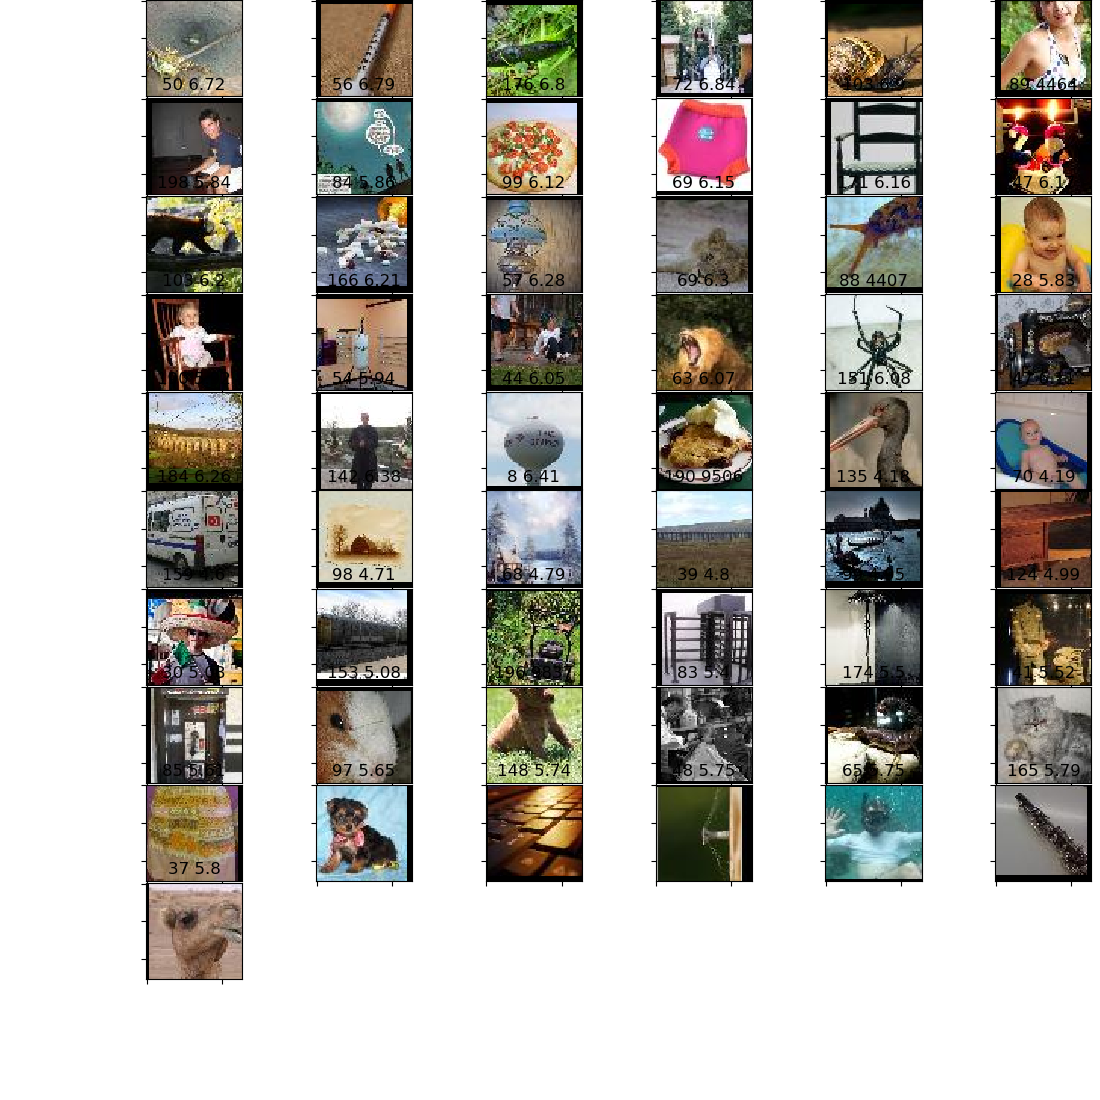
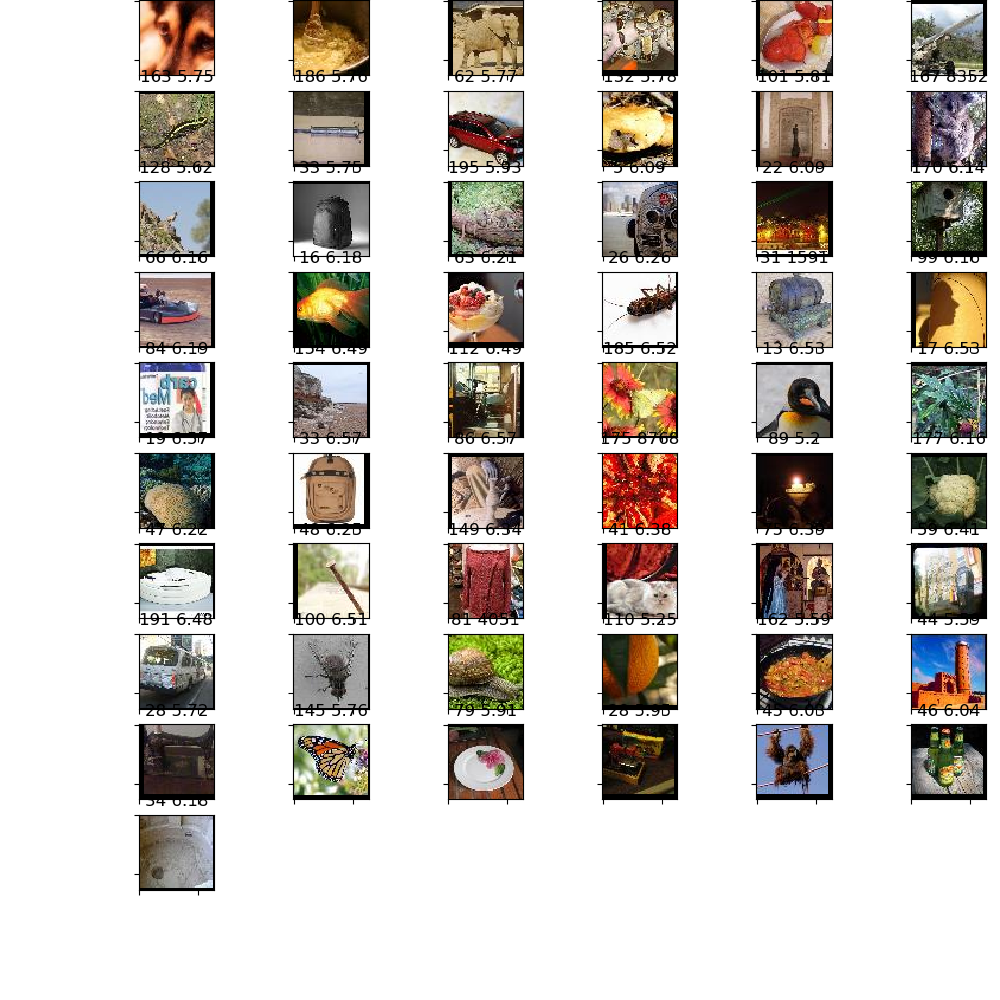
Added images

diff --git a/grapher.py b/grapher.py
@@ -22,16 +22,17 @@ import os
 
 def show_figures(images, title):
     #plt.figure(figsize=(8, 10))
-    fig = plt.figure(figsize=(11, 11))
+    fig = plt.figure(figsize=(10, 10))
     gs = gridspec.GridSpec(10, 6)
-    gs.update(wspace=0.5, hspace=0.02, top=1, right=1)
+    gs.update(wspace=0.5, hspace=0.2, top=1, right=1)
     count = 0
     for idx, val in enumerate(images):
         #plt.subplot(11 / 5 + 1, 5, idx + 1)
         #plt.subplots_adjust(top=0.99, bottom=0.01, hspace=1.5, wspace=0.4)
-        ax = plt.subplot(gs[idx + count ])
+        ax = plt.subplot(gs[idx])
         if idx + 1 % 11 == 0:
-            count += 1
+            
+            continue
         ax.set_xticklabels([])
         ax.set_yticklabels([])
         ax.set_aspect('equal')
